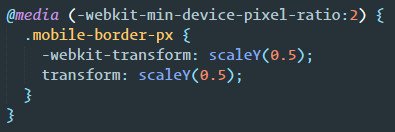
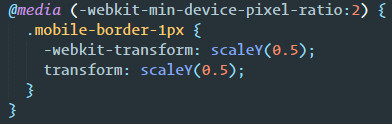
edit

diff --git a/css/style.css b/css/style.css
@@ -90,14 +90,14 @@ a:hover {
 }
 
 @media (-webkit-min-device-pixel-ratio: 1.5){
-	.mobile-border-px{
+	.mobile-border-1px{
     -webkit-transform: scaleY(0.7);
     transform: scaleY(0.7);
 	}
 }
 
 @media (-webkit-min-device-pixel-ratio:2) {
-	.mobile-border-px {
+	.mobile-border-1px {
 		-webkit-transform: scaleY(0.5);
 	  transform: scaleY(0.5);
 	}

diff --git a/page/page4.html b/page/page4.html
@@ -20,7 +20,7 @@
 			</figure>
 			<figure>
 				<figcaption class="t-center">理想中的1px border</figcaption>
-				<div class="border-1px mobile-border-px"></div>
+				<div class="border-1px mobile-border-1px"></div>
 			</figure>
 			<figure>
 				<figcaption class="t-center">代码</figcaption>
